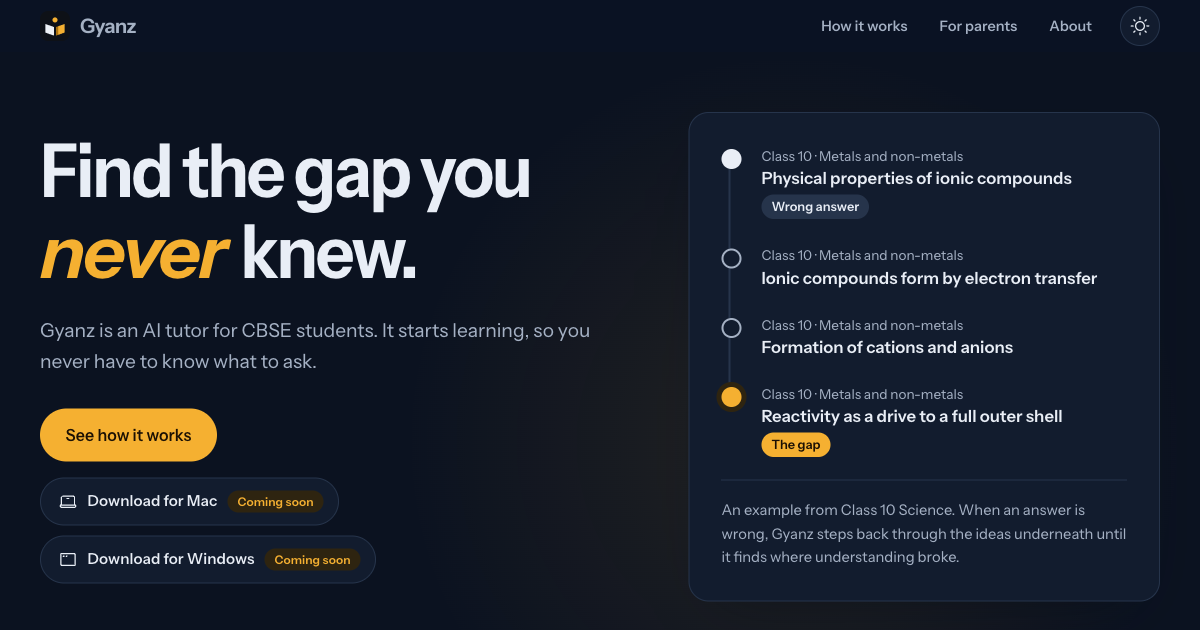
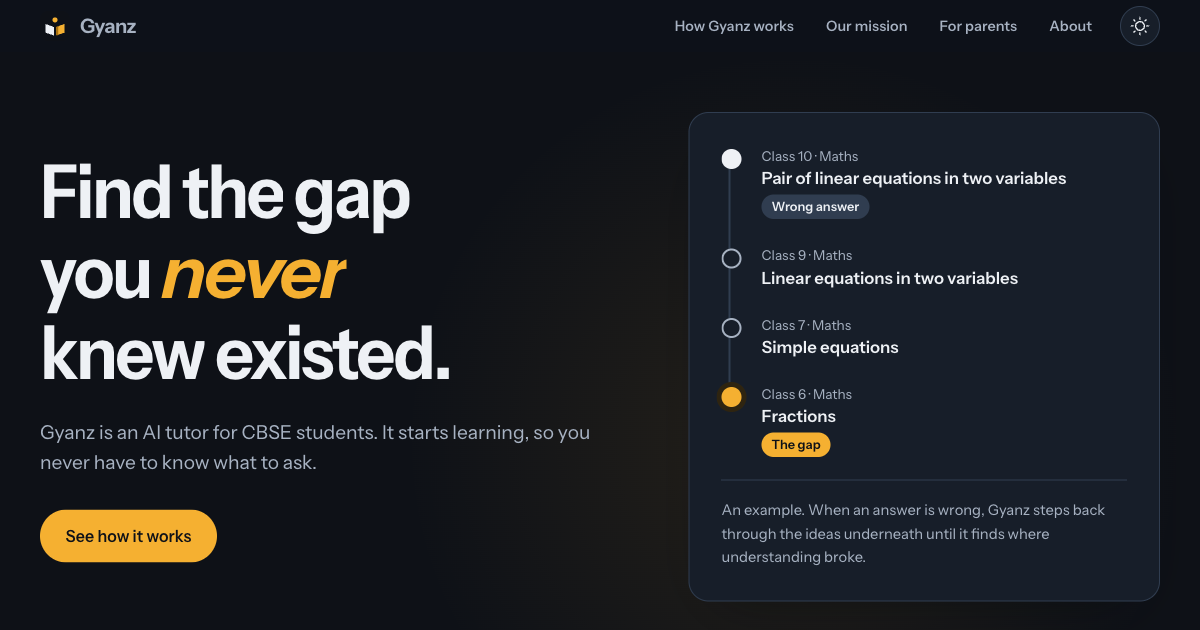
Tagline: Find the gap you never knew existed. Palette v1.0: charcoal, gold, trust blue; share image updated

diff --git a/site.css b/site.css
@@ -14,23 +14,25 @@
 
 :root {
   /* Dark is the default. The light values below apply only when the toggle sets data-theme="light". */
-  --bg: #0B1220;
-  --surface: #121C2E;
-  --fg: #E9EEF6;
-  --muted: #A5B1C4;
-  --line: #26344B;
+  /* Palette v1.0 (BRAND_RULES_GYANZ.md): Midnight Charcoal, Elevated Charcoal, Blue Slate, Cloud White, Muted Silver, Gyanz Gold, Link Blue. */
+  --bg: #0E1117;
+  --surface: #171E29;
+  --fg: #EEF1F5;
+  --muted: #A7B2C2;
+  --line: #303D50;
   --accent: #F5B031;
   --accent-text: #F5B031;
-  --on-accent: #1B1003;
+  --link: #6FA3D6;
+  --on-accent: #0E1117;
   --accent-tint: #2E2410;
   --glow: rgba(245, 176, 49, 0.10);
-  --panel: #1A2A44;
-  --panel-fg: #EEF2F8;
-  --panel-muted: #B3BFD1;
+  --panel: #244B75;                    /* Trust Blue: a fill, never text */
+  --panel-fg: #EEF1F5;
+  --panel-muted: #D0DAE8;
   --panel-card: rgba(238, 242, 248, 0.06);
   --panel-line: rgba(238, 242, 248, 0.16);
-  --nav-bg: rgba(11, 18, 32, 0.72);
-  --shadow: rgba(3, 8, 18, 0.55);
+  --nav-bg: rgba(14, 17, 23, 0.72);
+  --shadow: rgba(2, 4, 8, 0.55);
   --radius: 20px;
   --ease: cubic-bezier(0.16, 1, 0.3, 1);
   --font: "Instrument Sans", "Instrument Fallback", system-ui, -apple-system, "Segoe UI", "Helvetica Neue", Arial, "Noto Sans", sans-serif;
@@ -41,18 +43,19 @@
   color-scheme: dark;
 }
 :root[data-theme="light"] {
-  --bg: #F5F7FA;
+  --bg: #EEF1F5;
   --surface: #FFFFFF;
-  --fg: #0F1B2D;
+  --fg: #0E1117;
   --muted: #4A566A;
   --line: #D9DFE9;
   --accent-text: #8F5A00;
+  --link: #244B75;
   --accent-tint: #FCEFD3;
   --glow: rgba(245, 176, 49, 0.07);
-  --panel: #0F1B2D;
-  --panel-muted: #AEBACD;
-  --nav-bg: rgba(245, 247, 250, 0.72);
-  --shadow: rgba(15, 27, 45, 0.28);
+  --panel: #0E1117;
+  --panel-muted: #B3BFD1;
+  --nav-bg: rgba(238, 241, 245, 0.72);
+  --shadow: rgba(14, 17, 23, 0.28);
   color-scheme: light;
 }
 @media (prefers-contrast: more) {
@@ -93,7 +96,7 @@ section { padding-block: clamp(4rem, 10vw, 8rem); }
 .vh { position: absolute; width: 1px; height: 1px; margin: -1px; overflow: hidden; clip-path: inset(50%); white-space: nowrap; }
 .icon { width: 1.25em; height: 1.25em; flex: none; }
 sup { font-size: 0.7em; line-height: 0; margin-left: 0.15em; }
-sup a { text-decoration: none; color: var(--accent-text); font-weight: 600; }
+sup a { text-decoration: none; color: var(--link); font-weight: 600; }
 
 /* Reading progress: set by site.js from the scroll position; ends where the useful content ends (before the legal text if the page has it) */
 .progress { position: fixed; inset: 0 0 auto 0; height: 2px; z-index: 30; pointer-events: none; display: none; }
@@ -159,7 +162,7 @@ footer .mark { width: 26px; height: 26px; }
 }
 .btn:hover { filter: brightness(1.06); }
 .btn:active { transform: scale(0.97); }
-.tlink { display: inline-flex; align-items: center; gap: 2px; min-height: 44px; font-weight: 560; letter-spacing: 0.005em; color: var(--accent-text); text-decoration: none; }
+.tlink { display: inline-flex; align-items: center; gap: 2px; min-height: 44px; font-weight: 560; letter-spacing: 0.005em; color: var(--link); text-decoration: none; }
 .tlink .icon { width: 1em; height: 1em; transition: transform 200ms var(--ease); }
 .tlink:hover .icon { transform: translateX(3px); }
 

diff --git a/index.html b/index.html
@@ -7,11 +7,11 @@
 <title>Gyanz</title>
 <script>try{if(!location.hash)history.scrollRestoration='manual'}catch(e){}try{var n=performance.getEntriesByType('navigation')[0];if(!location.hash&&!(n&&n.type==='back_forward'))scrollTo(0,0)}catch(e){if(!location.hash)scrollTo(0,0)}document.documentElement.classList.add('js');(function(){var t='dark';try{t=localStorage.getItem('gyanz-theme')==='light'?'light':'dark'}catch(e){}document.documentElement.setAttribute('data-theme',t)})();</script>
 <meta name="description" content="Gyanz is an AI tutor for CBSE students. It finds the gap you did not know you had and helps you fix it.">
-<meta name="theme-color" content="#0B1220">
+<meta name="theme-color" content="#0E1117">
 <link rel="canonical" href="https://gyanz.online/">
 <meta property="og:type" content="website">
 <meta property="og:site_name" content="Gyanz">
-<meta property="og:title" content="Gyanz: find the gap you never knew">
+<meta property="og:title" content="Gyanz: find the gap you never knew existed">
 <meta property="og:description" content="Gyanz is an AI tutor for CBSE students. It finds the gap you did not know you had and helps you fix it.">
 <meta property="og:url" content="https://gyanz.online/">
 <meta property="og:image" content="https://gyanz.online/og-image.png">
@@ -45,7 +45,7 @@
   <section class="hero">
     <div class="wrap">
       <div class="copy">
-        <h1>Find the gap you <em>never</em> knew.</h1>
+        <h1>Find the gap you <em>never</em> knew existed.</h1>
         <p class="lead">Gyanz is an AI tutor for CBSE students. It starts learning, so you never have to know what to ask.</p>
         <a class="btn" href="how-it-works/">See how it works</a>
       </div>

diff --git a/mission/index.html b/mission/index.html
@@ -7,7 +7,7 @@
 <title>Our mission · Gyanz</title>
 <script>try{if(!location.hash)history.scrollRestoration='manual'}catch(e){}try{var n=performance.getEntriesByType('navigation')[0];if(!location.hash&&!(n&&n.type==='back_forward'))scrollTo(0,0)}catch(e){if(!location.hash)scrollTo(0,0)}document.documentElement.classList.add('js');(function(){var t='dark';try{t=localStorage.getItem('gyanz-theme')==='light'?'light':'dark'}catch(e){}document.documentElement.setAttribute('data-theme',t)})();</script>
 <meta name="description" content="Why we are building Gyanz: tutoring for students who learn without anyone to explain the next step.">
-<meta name="theme-color" content="#0B1220">
+<meta name="theme-color" content="#0E1117">
 <link rel="canonical" href="https://gyanz.online/mission/">
 <meta property="og:type" content="website">
 <meta property="og:site_name" content="Gyanz">

diff --git a/how-it-works/index.html b/how-it-works/index.html
@@ -7,7 +7,7 @@
 <title>How Gyanz works · Gyanz</title>
 <script>try{if(!location.hash)history.scrollRestoration='manual'}catch(e){}try{var n=performance.getEntriesByType('navigation')[0];if(!location.hash&&!(n&&n.type==='back_forward'))scrollTo(0,0)}catch(e){if(!location.hash)scrollTo(0,0)}document.documentElement.classList.add('js');(function(){var t='dark';try{t=localStorage.getItem('gyanz-theme')==='light'?'light':'dark'}catch(e){}document.documentElement.setAttribute('data-theme',t)})();</script>
 <meta name="description" content="One task, one clue, one fix. How Gyanz finds the idea a student missed and helps fix it.">
-<meta name="theme-color" content="#0B1220">
+<meta name="theme-color" content="#0E1117">
 <link rel="canonical" href="https://gyanz.online/how-it-works/">
 <meta property="og:type" content="website">
 <meta property="og:site_name" content="Gyanz">

diff --git a/parents/index.html b/parents/index.html
@@ -7,7 +7,7 @@
 <title>For parents · Gyanz</title>
 <script>try{if(!location.hash)history.scrollRestoration='manual'}catch(e){}try{var n=performance.getEntriesByType('navigation')[0];if(!location.hash&&!(n&&n.type==='back_forward'))scrollTo(0,0)}catch(e){if(!location.hash)scrollTo(0,0)}document.documentElement.classList.add('js');(function(){var t='dark';try{t=localStorage.getItem('gyanz-theme')==='light'?'light':'dark'}catch(e){}document.documentElement.setAttribute('data-theme',t)})();</script>
 <meta name="description" content="What stays on the computer, what goes to the AI, and the questions parents ask about Gyanz.">
-<meta name="theme-color" content="#0B1220">
+<meta name="theme-color" content="#0E1117">
 <link rel="canonical" href="https://gyanz.online/parents/">
 <meta property="og:type" content="website">
 <meta property="og:site_name" content="Gyanz">

diff --git a/about/index.html b/about/index.html
@@ -7,7 +7,7 @@
 <title>About · Gyanz</title>
 <script>try{if(!location.hash)history.scrollRestoration='manual'}catch(e){}try{var n=performance.getEntriesByType('navigation')[0];if(!location.hash&&!(n&&n.type==='back_forward'))scrollTo(0,0)}catch(e){if(!location.hash)scrollTo(0,0)}document.documentElement.classList.add('js');(function(){var t='dark';try{t=localStorage.getItem('gyanz-theme')==='light'?'light':'dark'}catch(e){}document.documentElement.setAttribute('data-theme',t)})();</script>
 <meta name="description" content="Why we are building Gyanz, where it is today, and what is next.">
-<meta name="theme-color" content="#0B1220">
+<meta name="theme-color" content="#0E1117">
 <link rel="canonical" href="https://gyanz.online/about/">
 <meta property="og:type" content="website">
 <meta property="og:site_name" content="Gyanz">

diff --git a/404.html b/404.html
@@ -8,7 +8,7 @@
 <script>try{if(!location.hash)history.scrollRestoration='manual'}catch(e){}try{var n=performance.getEntriesByType('navigation')[0];if(!location.hash&&!(n&&n.type==='back_forward'))scrollTo(0,0)}catch(e){if(!location.hash)scrollTo(0,0)}document.documentElement.classList.add('js');(function(){var t='dark';try{t=localStorage.getItem('gyanz-theme')==='light'?'light':'dark'}catch(e){}document.documentElement.setAttribute('data-theme',t)})();</script>
 <meta name="description" content="This page is not here.">
 <meta name="robots" content="noindex">
-<meta name="theme-color" content="#0B1220">
+<meta name="theme-color" content="#0E1117">
 <meta property="og:type" content="website">
 <meta property="og:site_name" content="Gyanz">
 <meta property="og:title" content="Not found · Gyanz">

diff --git a/site.js b/site.js
@@ -219,7 +219,7 @@
     const apply = (t) => {
       root.setAttribute("data-theme", t);
       btn.setAttribute("aria-label", t === "light" ? "Switch to dark theme" : "Switch to light theme");
-      if (meta) meta.setAttribute("content", t === "light" ? "#F5F7FA" : "#0B1220");
+      if (meta) meta.setAttribute("content", t === "light" ? "#EEF1F5" : "#0E1117");
     };
     apply(root.getAttribute("data-theme") === "light" ? "light" : "dark");
     btn.addEventListener("click", () => {
